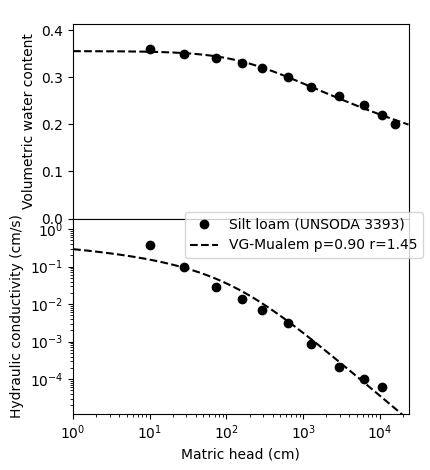
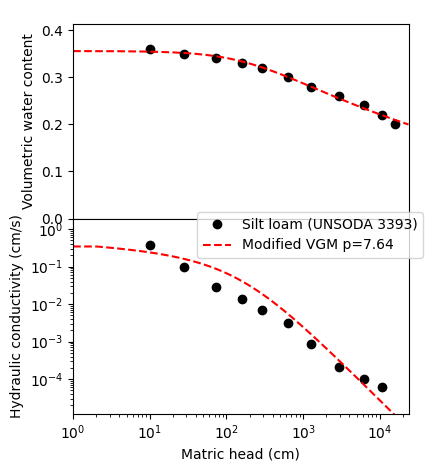
sample with modified VG

diff --git a/docs/sample/VG-Mualem.py b/docs/sample/VG-Mualem.py
@@ -18,16 +18,22 @@ f = unsatfit.Fit()  # Create instance for fitting
 f.swrc = (h_t, theta)  # Data of soil water retention
 f.unsat = (h_k, k)  # Data of unsaturated hydraulic conductivity
 wrf = f.get_wrf_vg()  # Get water retention paramters
+n = 1/(1-wrf[3])
 print('Water retention parameters with m=1-1/n (q=1)')
 print('qs = {0:.3f} qr = {1:.3f} a = {2:.3} m = {3:.3}'.format(*wrf[:4]))
-f.set_model('VG', const=[wrf])  # Set model and constant parameters
-f.ini = (max(k), 2, 2)  # Set initial paramter
-f.b_Ks = (max(k)*0.9, max(k)*2)  # Set bound for Ks
+model = 'VG-Mualem'
+f.set_model('VG', const=[wrf, 'r=1'])  # Set model and constant parameters
+if n < 2:
+    f.modified_model(2)
+    model = 'Modified VGM'
+    print('Modified VG model with hs=2cm is used because n<2')
+f.ini = (max(k), 1.5)  # Set initial paramter
+f.b_ks = (max(k)*0.9, max(k)*5)  # Set bound for Ks
 f.optimize()  # Optimize
 if not f.success:
     print(f.message)
     exit(1)
-ks, p, r = f.fitted  # Get result
+ks, p = f.fitted  # Get result
 print('Hydraulic conductivity parameters')
 print(f.message)  # Show result
 ### Save figure ###
@@ -35,7 +41,7 @@ f.label_head = 'Matric head (cm)'
 f.label_theta = 'Volumetric water content'
 f.label_k = 'Hydraulic conductivity (cm/s)'
 f.data_legend = 'Silt loam (UNSODA 3393)'
-f.line_legend = 'VG-Mualem p={0:.2f} r={1:.2f}'.format(p, r)
+f.line_legend = '{0} p={1:.2f}'.format(model, p)
 f.legend_loc = 'center right'
 f.save_fig = True
 f.filename = FIG
